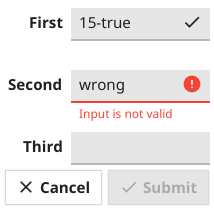
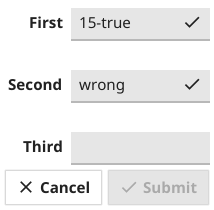
Don't show Entry validation errors immediately
This is a special case for Entry, we can work on it as we add validation elsewhere.
Now a form can be invalid without lots of error messages on initial load

Changed region(s): [[0.3364, 0.3429, 0.9813, 0.5714]]

diff --git a/widget/form.go b/widget/form.go
@@ -17,6 +17,7 @@ type FormItem struct {
 	HintText string
 
 	validationError error
+	invalid         bool
 	helperOutput    *canvas.Text
 }
 
@@ -142,7 +143,7 @@ func (f *Form) checkValidation(err error) {
 	}
 
 	for _, item := range f.Items {
-		if item.validationError != nil {
+		if item.invalid {
 			f.submitButton.Disable()
 			return
 		}
@@ -153,9 +154,13 @@ func (f *Form) checkValidation(err error) {
 
 func (f *Form) setUpValidation(widget fyne.CanvasObject, i int) {
 	if w, ok := widget.(fyne.Validatable); ok {
-		f.Items[i].validationError = w.Validate()
+		f.Items[i].invalid = w.Validate() != nil
+		if e, ok := w.(*Entry); ok && e.Validator != nil {
+			e.SetValidationError(nil) // clear initial state, will appear when we type
+		}
 		w.SetOnValidationChanged(func(err error) {
 			f.Items[i].validationError = err
+			f.Items[i].invalid = err != nil
 			f.checkValidation(err)
 			f.updateHelperText(f.Items[i])
 		})

diff --git a/widget/form_test.go b/widget/form_test.go
@@ -148,9 +148,12 @@ func TestForm_Hints(t *testing.T) {
 	w := test.NewWindow(form)
 	defer w.Close()
 
+	test.AssertImageMatches(t, "form/hint_initial.png", w.Canvas().Capture())
+
+	test.Type(entry2, "n")
 	test.AssertImageMatches(t, "form/hint_invalid.png", w.Canvas().Capture())
 
-	test.Type(entry2, "not-")
+	test.Type(entry2, "ot-")
 	test.AssertImageMatches(t, "form/hint_valid.png", w.Canvas().Capture())
 }
 
